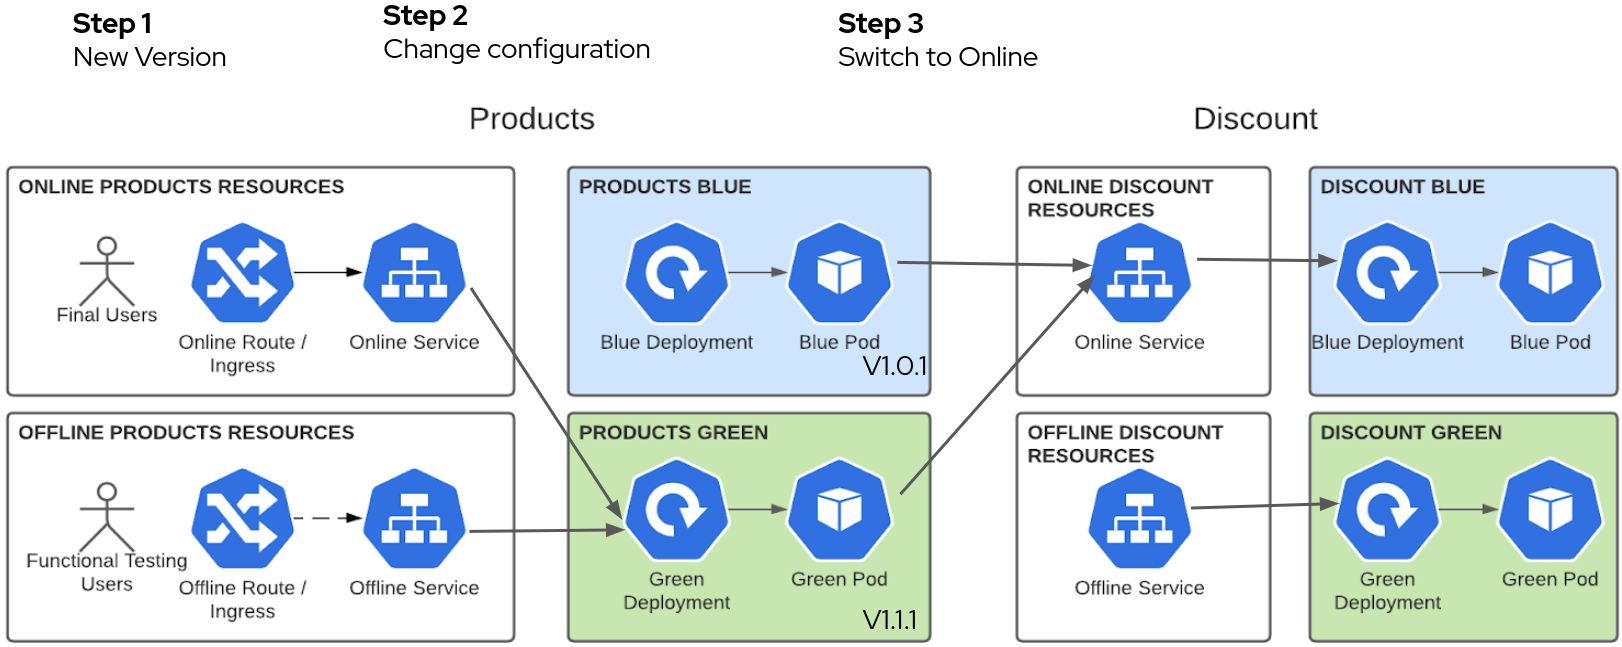
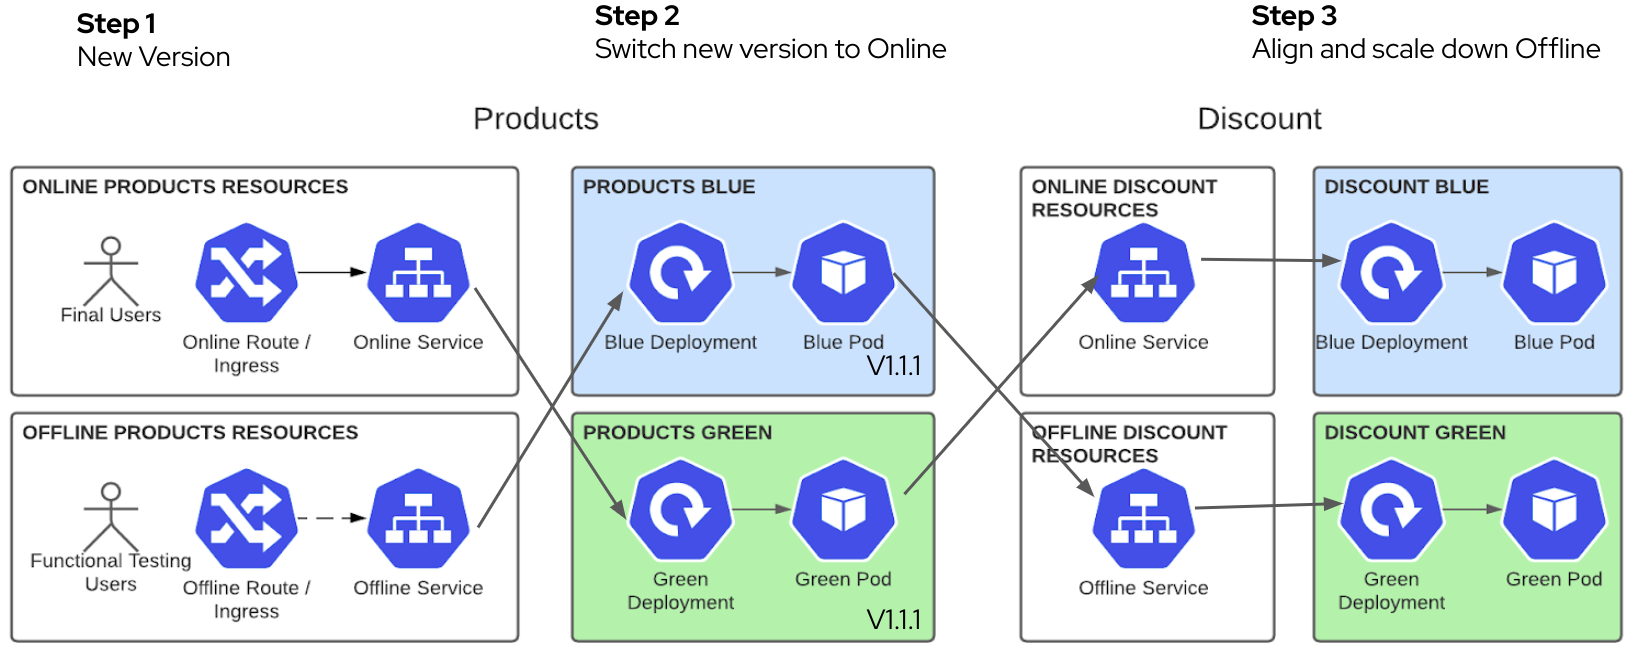
improve images

diff --git a/blue-green-pipeline/README.md b/blue-green-pipeline/README.md
@@ -416,7 +416,7 @@ oc create -f 2-pipelinerun-products-switch.yaml -n gitops
 
 ![Pipeline step 2](https://github.com/davidseve/cloud-native-deployment-strategies/raw/main/images/pipeline-step-3.png)
 After the pipeline is finished and ArgoCD has synchronized the changes this will be the `Shop` status:
-![Shop step 2](https://github.com/davidseve/cloud-native-deployment-strategies/raw/main/images/blue-green-step-3.png)
+![Shop step 2](https://github.com/davidseve/cloud-native-deployment-strategies/raw/main/images/blue-green-step-2.png)
 **We have in the online environment the new version v1.1.1!!!**
 ```json
 {
@@ -445,7 +445,7 @@ oc create -f 2-pipelinerun-products-switch-rollback.yaml -n gitops
 
 ![Pipeline step 2,5 Rollback](https://github.com/davidseve/cloud-native-deployment-strategies/raw/main/images/pipeline-step-3-rollback.png)
 After the pipeline is finished and ArgoCD has synchronized the changes this will be the `Shop` status:
-![Shop step 2,5 Rollback](https://github.com/davidseve/cloud-native-deployment-strategies/raw/main/images/blue-green-step-3-5.png)
+![Shop step 2,5 Rollback](https://github.com/davidseve/cloud-native-deployment-strategies/raw/main/images/blue-green-step-2-5.png)
 We have version v1.0.1 online again.
 ```json
 {
